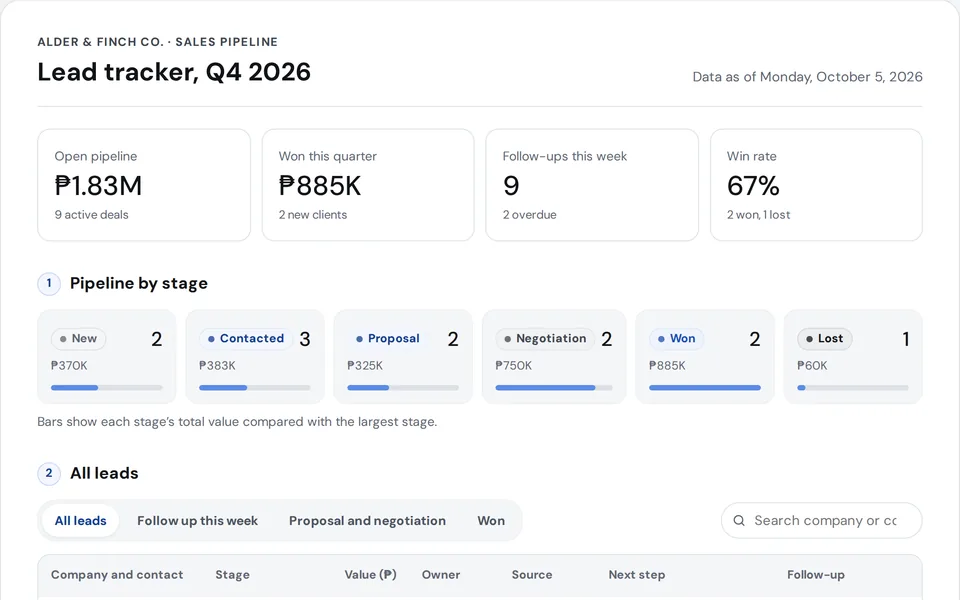
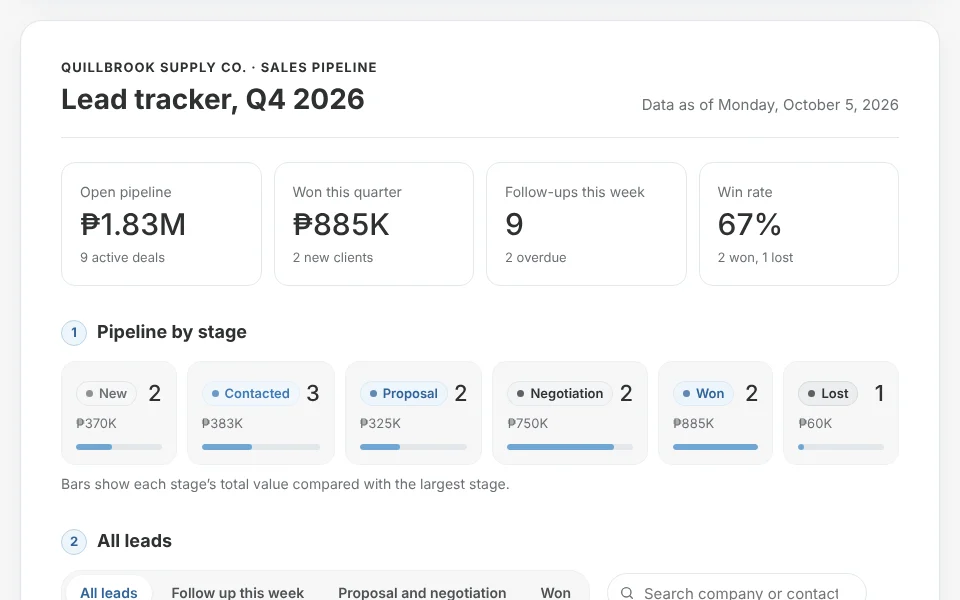
updated

diff --git a/samples/client-lead-tracker.html b/samples/client-lead-tracker.html
@@ -25,6 +25,15 @@
   <link href="https://fonts.googleapis.com/css2?family=DM+Sans:wght@400;500;700&display=swap" rel="stylesheet">
   <link rel="stylesheet" href="samples.css">
   <style>
+    /* Page theme: The Litton Hotel palette (soft sky blue, charcoal, light gray, white) */
+    :root {
+      --canvas: #F7F7F7; --paper: #FFFFFF; --ink: #2E3031; --ink-2: #4D5154; --muted: #6B7075; --line: #E3E7EB; --line-soft: #EEF0F2;
+      --blue-50: #EEF5FB; --blue-100: #DCEAF5; --blue-200: #B9D3E8; --blue-400: #70A6D4; --blue-600: #3F7DBF; --blue-700: #2F6399;
+      --sage-50: #EEF5FB; --sage-100: #DCEAF5; --sage-400: #70A6D4; --sage-700: #2F6399;
+      --lav-50: #F2F7FC; --lav-100: #E3EEF8; --lav-400: #8DB8DE; --lav-700: #3F79B5;
+      --gold-50: #F4F5F6; --gold-100: #E6E7E8; --gold-400: #9A9EA2; --gold-700: #2E3031;
+      --rose-50: #EDEEEF; --rose-100: #D9DBDD; --rose-400: #6B7075; --rose-700: #2E3031;
+    }
     .kpis { display: grid; gap: 12px; grid-template-columns: repeat(2, 1fr); margin-bottom: 24px; }
     @media (min-width: 820px) { .kpis { grid-template-columns: repeat(4, 1fr); } }
     .kpi .sub { display: block; margin-top: 6px; font-size: 13px; color: var(--muted); }
@@ -44,7 +53,7 @@
     .views button[aria-pressed="true"] { background: var(--paper); color: var(--blue-700); box-shadow: 0 1px 3px rgba(15, 40, 70, .1); }
     .search { position: relative; }
     .search input { min-height: 40px; width: min(260px, 100%); padding: 8px 14px 8px 36px; border: 1px solid var(--line); border-radius: 999px; font: 15px var(--sans); color: var(--ink); background: var(--paper); }
-    .search input:focus { outline: none; border-color: var(--blue-400); box-shadow: 0 0 0 3px rgba(91, 181, 238, .2); }
+    .search input:focus { outline: none; border-color: var(--blue-400); box-shadow: 0 0 0 3px rgba(112, 166, 212, .25); }
     .search svg { position: absolute; left: 12px; top: 50%; transform: translateY(-50%); color: var(--muted); }
     .co b { display: block; font-weight: 600; }
     .co small { color: var(--muted); font-size: 13px; }
@@ -104,7 +113,7 @@
     <article class="doc">
       <header class="doc-head">
         <div>
-          <p class="doc-kicker">Alder &amp; Finch Co. &middot; Sales pipeline</p>
+          <p class="doc-kicker">Quillbrook Supply Co. &middot; Sales pipeline</p>
           <h2 class="doc-title">Lead tracker, Q4 2026</h2>
         </div>
         <p class="doc-sub">Data as of Monday, October 5, 2026</p>
@@ -148,18 +157,18 @@
           <table>
             <thead><tr><th>Company and contact</th><th>Stage</th><th class="num">Value (&#8369;)</th><th>Owner</th><th>Source</th><th>Next step</th><th>Follow-up</th></tr></thead>
             <tbody id="leads">
-              <tr data-stage="proposal" data-follow="2026-10-02"><td class="co"><b>Kestrel Hardware</b><small>Ramon Lim</small></td><td><span class="pill p-blue">Proposal</span></td><td class="num">140,000</td><td><span class="owner"><span class="av av-c">CA</span>Carlo</span></td><td>Referral</td><td>Confirm decision date</td><td class="due">Oct 2</td></tr>
-              <tr data-stage="contacted" data-follow="2026-10-03"><td class="co"><b>Brightwell Logistics</b><small>Sam Chua</small></td><td><span class="pill p-lav">Contacted</span></td><td class="num">210,000</td><td><span class="owner"><span class="av av-c">CA</span>Carlo</span></td><td>LinkedIn</td><td>Send proposal draft</td><td class="due">Oct 3</td></tr>
-              <tr data-stage="proposal" data-follow="2026-10-05"><td class="co"><b>Bayside Packaging</b><small>Leo Santos</small></td><td><span class="pill p-blue">Proposal</span></td><td class="num">185,000</td><td><span class="owner"><span class="av av-c">CA</span>Carlo</span></td><td>Trade show</td><td>Follow up on proposal</td><td class="due">Oct 5</td></tr>
-              <tr data-stage="new" data-follow="2026-10-05"><td class="co"><b>Silverleaf Hotels</b><small>Grace Tan</small></td><td><span class="pill p-gray">New</span></td><td class="num">250,000</td><td><span class="owner"><span class="av av-i">IV</span>Ivy</span></td><td>LinkedIn</td><td>Send intro email</td><td class="due">Oct 5</td></tr>
-              <tr data-stage="negotiation" data-follow="2026-10-06"><td class="co"><b>Marlowe Foods</b><small>Ana Villanueva</small></td><td><span class="pill p-gold">Negotiation</span></td><td class="num">420,000</td><td><span class="owner"><span class="av av-i">IV</span>Ivy</span></td><td>Referral</td><td>Send revised pricing</td><td class="due">Oct 6</td></tr>
-              <tr data-stage="new" data-follow="2026-10-06"><td class="co"><b>Crestview Schools</b><small>Liza Aquino</small></td><td><span class="pill p-gray">New</span></td><td class="num">120,000</td><td><span class="owner"><span class="av av-i">IV</span>Ivy</span></td><td>Website</td><td>Qualify budget and timing</td><td class="due">Oct 6</td></tr>
-              <tr data-stage="contacted" data-follow="2026-10-07"><td class="co"><b>Northgate Pharmacy</b><small>Paolo Reyes</small></td><td><span class="pill p-lav">Contacted</span></td><td class="num">95,000</td><td><span class="owner"><span class="av av-j">JE</span>Jen</span></td><td>Cold email</td><td>Book discovery call</td><td class="due">Oct 7</td></tr>
-              <tr data-stage="contacted" data-follow="2026-10-08"><td class="co"><b>Pinecrest Clinics</b><small>Joy Mendoza</small></td><td><span class="pill p-lav">Contacted</span></td><td class="num">78,000</td><td><span class="owner"><span class="av av-j">JE</span>Jen</span></td><td>Website</td><td>Send case study</td><td class="due">Oct 8</td></tr>
-              <tr data-stage="negotiation" data-follow="2026-10-09"><td class="co"><b>Oakline Furniture</b><small>Mark Uy</small></td><td><span class="pill p-gold">Negotiation</span></td><td class="num">330,000</td><td><span class="owner"><span class="av av-c">CA</span>Carlo</span></td><td>Trade show</td><td>Legal review of terms</td><td class="due">Oct 9</td></tr>
-              <tr data-stage="won" data-follow="2026-10-12"><td class="co"><b>Harlow Retail</b><small>Kim Dela Cruz</small></td><td><span class="pill p-sage">Won</span></td><td class="num">610,000</td><td><span class="owner"><span class="av av-i">IV</span>Ivy</span></td><td>Website</td><td>Kickoff call</td><td class="due">Oct 12</td></tr>
-              <tr data-stage="won" data-follow="2026-10-15"><td class="co"><b>Tidewater Grocers</b><small>Bea Ramos</small></td><td><span class="pill p-sage">Won</span></td><td class="num">275,000</td><td><span class="owner"><span class="av av-i">IV</span>Ivy</span></td><td>Referral</td><td>Onboarding checklist</td><td class="due">Oct 15</td></tr>
-              <tr data-stage="lost" data-follow="2027-01-12"><td class="co"><b>Ember Cafe Group</b><small>Nico Garcia</small></td><td><span class="pill p-rose">Lost</span></td><td class="num">60,000</td><td><span class="owner"><span class="av av-j">JE</span>Jen</span></td><td>Instagram</td><td>Reconnect in Q1</td><td class="due">Jan 12</td></tr>
+              <tr data-stage="proposal" data-follow="2026-10-02"><td class="co"><b>Pinewick Hardware Supply</b><small>Ethan Walker</small></td><td><span class="pill p-blue">Proposal</span></td><td class="num">140,000</td><td><span class="owner"><span class="av av-c">MI</span>Michael</span></td><td>Referral</td><td>Confirm decision date</td><td class="due">Oct 2</td></tr>
+              <tr data-stage="contacted" data-follow="2026-10-03"><td class="co"><b>Tallowmere Freight Co.</b><small>Megan Brooks</small></td><td><span class="pill p-lav">Contacted</span></td><td class="num">210,000</td><td><span class="owner"><span class="av av-c">MI</span>Michael</span></td><td>LinkedIn</td><td>Send proposal draft</td><td class="due">Oct 3</td></tr>
+              <tr data-stage="proposal" data-follow="2026-10-05"><td class="co"><b>Cobbleton Packaging</b><small>Tyler Hayes</small></td><td><span class="pill p-blue">Proposal</span></td><td class="num">185,000</td><td><span class="owner"><span class="av av-c">MI</span>Michael</span></td><td>Trade show</td><td>Follow up on proposal</td><td class="due">Oct 5</td></tr>
+              <tr data-stage="new" data-follow="2026-10-05"><td class="co"><b>Marrowind Inn Group</b><small>Lauren Mitchell</small></td><td><span class="pill p-gray">New</span></td><td class="num">250,000</td><td><span class="owner"><span class="av av-i">AS</span>Ashley</span></td><td>LinkedIn</td><td>Send intro email</td><td class="due">Oct 5</td></tr>
+              <tr data-stage="negotiation" data-follow="2026-10-06"><td class="co"><b>Hollisford Foods</b><small>Rachel Coleman</small></td><td><span class="pill p-gold">Negotiation</span></td><td class="num">420,000</td><td><span class="owner"><span class="av av-i">AS</span>Ashley</span></td><td>Referral</td><td>Send revised pricing</td><td class="due">Oct 6</td></tr>
+              <tr data-stage="new" data-follow="2026-10-06"><td class="co"><b>Fernhollow Academy</b><small>Brandon Reed</small></td><td><span class="pill p-gray">New</span></td><td class="num">120,000</td><td><span class="owner"><span class="av av-i">AS</span>Ashley</span></td><td>Website</td><td>Qualify budget and timing</td><td class="due">Oct 6</td></tr>
+              <tr data-stage="contacted" data-follow="2026-10-07"><td class="co"><b>Ashcombe Family Pharmacy</b><small>Jessica Turner</small></td><td><span class="pill p-lav">Contacted</span></td><td class="num">95,000</td><td><span class="owner"><span class="av av-j">SA</span>Sarah</span></td><td>Cold email</td><td>Book discovery call</td><td class="due">Oct 7</td></tr>
+              <tr data-stage="contacted" data-follow="2026-10-08"><td class="co"><b>Willowmarch Clinics</b><small>Kevin Sullivan</small></td><td><span class="pill p-lav">Contacted</span></td><td class="num">78,000</td><td><span class="owner"><span class="av av-j">SA</span>Sarah</span></td><td>Website</td><td>Send case study</td><td class="due">Oct 8</td></tr>
+              <tr data-stage="negotiation" data-follow="2026-10-09"><td class="co"><b>Bramblewood Furniture Works</b><small>Amanda Price</small></td><td><span class="pill p-gold">Negotiation</span></td><td class="num">330,000</td><td><span class="owner"><span class="av av-c">MI</span>Michael</span></td><td>Trade show</td><td>Legal review of terms</td><td class="due">Oct 9</td></tr>
+              <tr data-stage="won" data-follow="2026-10-12"><td class="co"><b>Quarrystone Retail</b><small>Jason Bennett</small></td><td><span class="pill p-sage">Won</span></td><td class="num">610,000</td><td><span class="owner"><span class="av av-i">AS</span>Ashley</span></td><td>Website</td><td>Kickoff call</td><td class="due">Oct 12</td></tr>
+              <tr data-stage="won" data-follow="2026-10-15"><td class="co"><b>Larkhaven Grocers</b><small>Emily Foster</small></td><td><span class="pill p-sage">Won</span></td><td class="num">275,000</td><td><span class="owner"><span class="av av-i">AS</span>Ashley</span></td><td>Referral</td><td>Onboarding checklist</td><td class="due">Oct 15</td></tr>
+              <tr data-stage="lost" data-follow="2027-01-12"><td class="co"><b>Copperkettle Cafe Group</b><small>Ryan Parker</small></td><td><span class="pill p-rose">Lost</span></td><td class="num">60,000</td><td><span class="owner"><span class="av av-j">SA</span>Sarah</span></td><td>Instagram</td><td>Reconnect in Q1</td><td class="due">Jan 12</td></tr>
             </tbody>
           </table>
           <p class="empty" id="empty" hidden>No leads match this view.</p>
